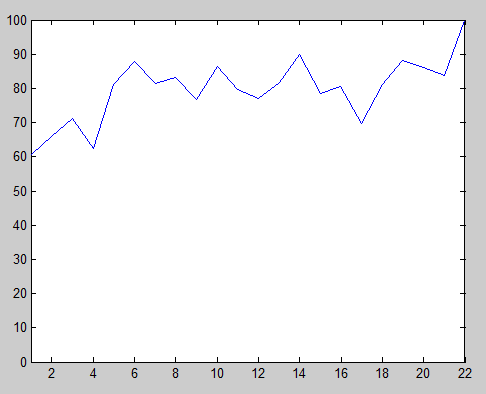
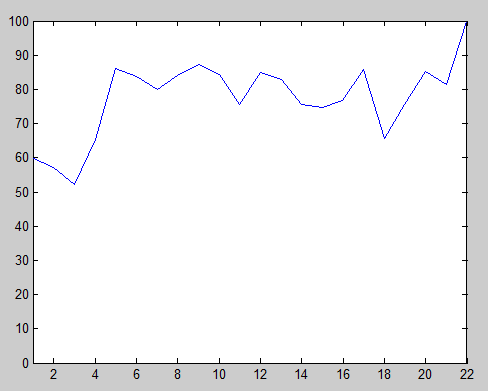
upraveny strom aby bol citlivejsi

diff --git a/testTree.m b/testTree.m
@@ -63,11 +63,15 @@ for pocet_dimenzii = 1:(d_stlpce-1)
 
         % porovnaj vysledky s nasim stlpcom
         [mm, nn] = size(a);
-        threshold = 0.5;
+        %threshold = 0.5;
 
         % zisti kolko je "negativnych" vysledkov
         b = abs(a - test_column);
-        negatives = sum(b > threshold);
+        % obmedz hornou hranicou
+        b = min(b, 1);
+        %negatives = sum(b > threshold);
+        % spocitaj percenta
+        negatives = sum(b);
         
         % skos na percenta
         result(validacia) = 100 - ((negatives / mm) * 100);

diff --git a/testLinear_old.m b/testLinear_old.m
@@ -3,7 +3,7 @@ learnT = c;
 test = mushs;
 testT = c;
 
-w = LinearClassifier(learn, learnT, 0, 5000);
+w = LinearClassifier(learn, learnT, 5000);
 dots = (w * test.')';
 dots = (dots > 0) + 1;
 [m, x] = size(test);
